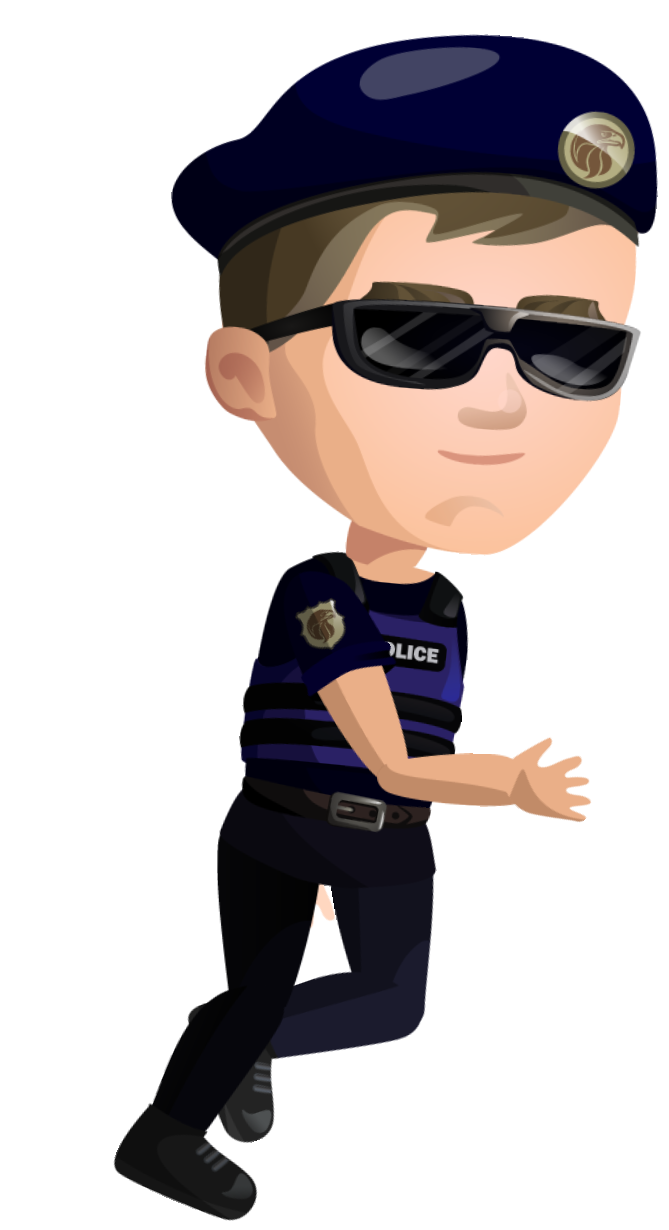
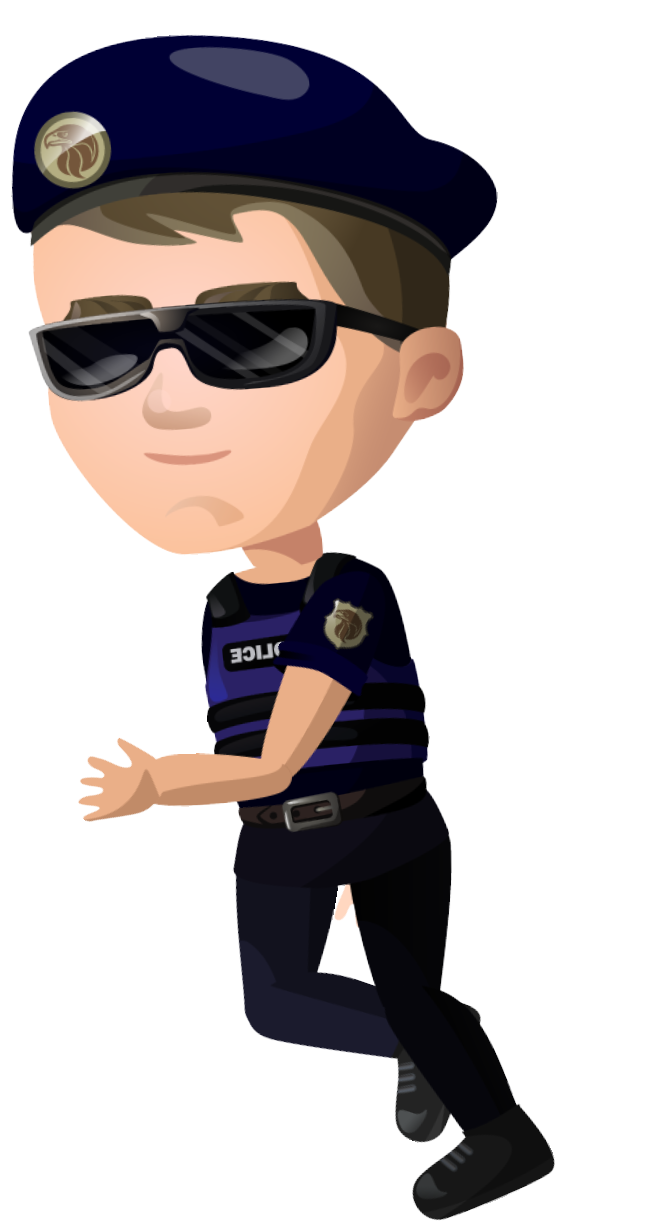
adding of a second policeman that is walking in the other direction
adding to the game

diff --git a/src1/header/game.cpp b/src1/header/game.cpp
@@ -77,7 +77,22 @@ void Game::loadTextures()
         std::cerr << "Failed to load player fall texture." << std::endl;
         exit(EXIT_FAILURE);
     }
+/////////////
+    for (int i = 0; i < 7; ++i)
+    {
+        sf::Texture texture;
+        std::string filename = "../Images/Policeman/1/walk_reverse/1_police_Walk_";
+        filename += (i < 7) ? "00" + std::to_string(i) : "0" + std::to_string(i);
+        filename += ".png";
 
+        if (!texture.loadFromFile(filename))
+        {
+            std::cerr << "Failed to load player texture: " << filename << std::endl;
+            exit(EXIT_FAILURE);
+        }
+        reversePolicemanTextures.push_back(texture);
+    }
+/////////////
     for (int i = 0; i < 7; ++i)
     {
         sf::Texture texture;
@@ -91,7 +106,10 @@ void Game::loadTextures()
             exit(EXIT_FAILURE);
         }
         policemanTextures.push_back(texture);
-    }
+    }    
+
+
+
     if (!coinTexture.loadFromFile("../Images/money/money.png"))
     {
         std::cerr << "Failed to load coin texture." << std::endl;
@@ -114,6 +132,7 @@ void Game::setupScene()
     player.setTexture(playerRunTextures[0]);
     coin.setTexture(coinTexture);
 
+    reversePoliceman.setTexture(reversePolicemanTextures[0]);
     player.setTexture(playerTextures[0]);
     policeman.setTexture(policemanTextures[0]);
     laser.setTexture(laserTextures[0]);
@@ -131,6 +150,8 @@ void Game::setupScene()
     player.setScale(0.14, 0.14);
     policeman.setPosition(800.f, 800.f + blueRectangle.getSize().y - 50);
     policeman.setScale(0.12, 0.12);
+    reversePoliceman.setPosition(800.f, initialYPosition + 85  ); // Align policeman below player
+    reversePoliceman.setScale(0.12, 0.12);
 
     laser.setPosition(400.f, 400.f);
 
@@ -179,12 +200,21 @@ void Game::update(sf::Time deltaTime)
 {
     sf::Time DeltaTime = clock.restart();
     float dtSeconds = deltaTime.asSeconds();
+
     policemanTimeElapsed += dtSeconds;
     if (policemanTimeElapsed >= animationSpeed)
     {
         policemanCurrentFrame = (policemanCurrentFrame + 1) % 7; // Assuming there are 7 frames
         policeman.setTexture(policemanTextures[policemanCurrentFrame]);
         policemanTimeElapsed = 0.0f;
+    }
+
+    reversePolicemanTimeElapsed += dtSeconds;
+    if (reversePolicemanTimeElapsed >= animationSpeed)
+    {
+        reversePolicemanCurrentFrame = (reversePolicemanCurrentFrame + 1) % 7; // Assuming there are 7 frames
+        reversePoliceman.setTexture(reversePolicemanTextures[reversePolicemanCurrentFrame]);
+        reversePolicemanTimeElapsed = 0.0f;
     }
 
     if (isSpacePressed)
@@ -217,6 +247,13 @@ void Game::update(sf::Time deltaTime)
         policemanTimeElapsed = 0.0f;
     }
 
+        reversePolicemanTimeElapsed += dtSeconds;
+    if (reversePolicemanTimeElapsed >= animationSpeed) {
+        reversePolicemanCurrentFrame = (reversePolicemanCurrentFrame + 1) % 7; // Assuming there are 7 frames
+        reversePoliceman.setTexture(reversePolicemanTextures[reversePolicemanCurrentFrame]);
+        reversePolicemanTimeElapsed = 0.0f;
+    }
+
     // Move policeman from right to left
     float policemanSpeed = 700.0f;          // Adjust speed as needed
     float dx = -policemanSpeed * dtSeconds; // Calculate horizontal movement
@@ -227,6 +264,17 @@ void Game::update(sf::Time deltaTime)
     {
         // Reset policeman position to the right side of the window
         policeman.setPosition(window.getSize().x, initialYPosition + blueRectangle.getSize().y - 50);
+    }
+
+   
+    float reversePolicemanSpeed = -200.0f; // Adjust speed as needed
+    float ax = reversePolicemanSpeed * dtSeconds; // Calculate horizontal movement
+    reversePoliceman.move(ax, 0); // Move the policeman horizontally
+
+    // Check if policeman has moved out of the window
+    if (reversePoliceman.getPosition().x + reversePoliceman.getLocalBounds().width < 0) {
+        // Reset policeman position to the right side of the window
+        reversePoliceman.setPosition(window.getSize().x, initialYPosition + 85);
     }
 
     // Update background
@@ -322,6 +370,9 @@ void Game::render()
 
     // Draw the player sprite
     window.draw(player);
+
+    window.draw(reversePoliceman);
+
     window.draw(coin);
     window.draw(laser);
 

diff --git a/src1/header/game.hpp b/src1/header/game.hpp
@@ -16,6 +16,7 @@ private:
     sf::Texture playerFallTextures;
     std::vector<sf::Texture> playerTextures;
     std::vector<sf::Texture> policemanTextures;
+    std::vector<sf::Texture> reversePolicemanTextures;
     std::vector<sf::Texture> laserTextures;
     sf::Texture backgroundTexture1;
     sf::Texture backgroundTexture2;
@@ -27,6 +28,7 @@ private:
     sf::Sprite frontground1;
     sf::Sprite frontground2;
     sf::Sprite policeman;
+    sf::Sprite reversePoliceman;
     sf::Sprite player;
     sf::Sprite coin;
     sf::Sprite laser;
@@ -36,6 +38,8 @@ private:
     float animationSpeed = 0.1f;
     int policemanCurrentFrame;
     float policemanTimeElapsed;
+    int reversePolicemanCurrentFrame;
+    float reversePolicemanTimeElapsed;
     float backgroundSpeed;
     float gravity;
     float initialYPosition;
